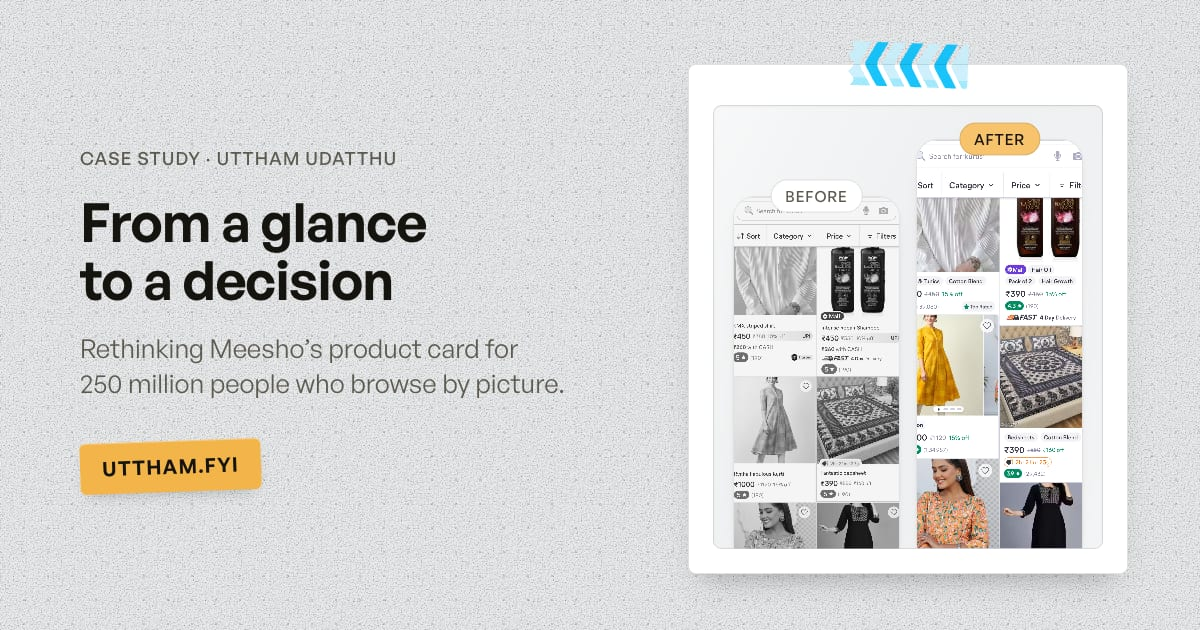
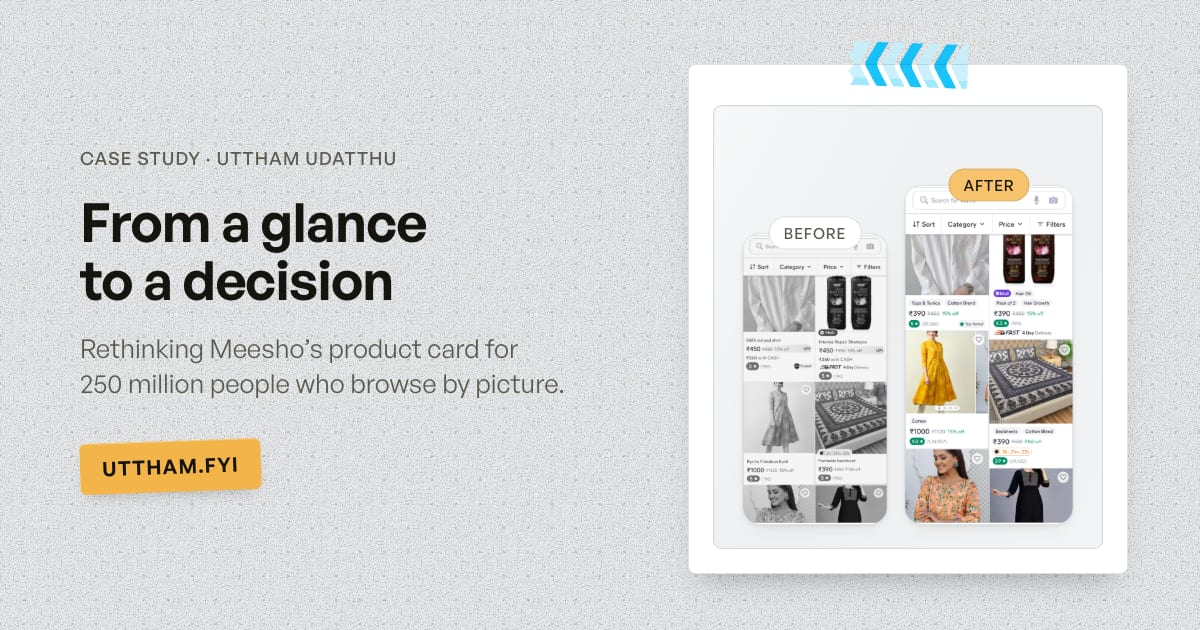
Link previews: whole 1:2 phones, nothing cropped

Changed region(s): [[0.5858, 0.181, 0.925, 0.8746]]

diff --git a/scripts/og/og-card.html b/scripts/og/og-card.html
@@ -95,17 +95,22 @@
     border-radius: 8px; box-shadow: var(--shadow-lift);
   }
   .case__tape { position: absolute; top: 0; left: calc(50% - 22px); width: 44px; translate: 0 -50%; rotate: 92deg; mix-blend-mode: multiply; opacity: 0.9; }
+  /* Whole screens, never cropped (Uttham, 2026-10-03: "when I give big images I
+     dont want you to just paste them or crop them abruptly making its content
+     gone (this is for all images you are using)"): each phone takes its
+     export's own 1:2, stands on one line with a margin on every side, and a
+     pair is sized so both fit the well's width. */
   .case__well {
     height: 100%; border-radius: 8px; overflow: hidden; display: flex; align-items: flex-end; justify-content: center; gap: 16px;
-    padding: 34px 20px 0;
+    padding: 34px 20px 24px;
     background: linear-gradient(118deg, rgba(255,255,255,0.55) 0%, rgba(255,255,255,0.3) 18%, rgba(255,255,255,0) 44%, rgba(255,255,255,0.14) 78%, rgba(255,255,255,0.3) 100%), #eef0f1;
     box-shadow: inset 0 0 0 1px rgba(22, 20, 14, 0.1), inset 0 1px 3px rgba(22, 20, 14, 0.08);
   }
-  .phone { position: relative; height: 100%; aspect-ratio: 9 / 15; }
-  .phone:not(:only-child) { max-width: calc(50% - 8px); }
-  .phone--old { height: 86%; }
-  .phone__screen { width: 100%; height: 100%; overflow: hidden; border: 1px solid var(--line-1); border-bottom: 0; border-radius: 22px 22px 0 0; background: #fff; box-shadow: var(--shadow-rest); }
-  .phone__screen img { display: block; width: 100%; height: 100%; object-fit: cover; object-position: top; }
+  .phone { position: relative; height: 100%; aspect-ratio: 1 / 2; }
+  .phone:not(:only-child) { height: 340px; }
+  .phone--old:not(:only-child) { height: 292px; }
+  .phone__screen { width: 100%; height: 100%; overflow: hidden; border: 1px solid var(--line-1); border-radius: 18px; background: #fff; box-shadow: var(--shadow-rest); }
+  .phone__screen img { display: block; width: 100%; height: 100%; object-fit: contain; }
   .phone--old img { filter: grayscale(1) contrast(0.92); }
   .phone__tag {
     position: absolute; top: 0; left: 50%; z-index: 1; translate: -50% -50%; padding: 5px 14px;
